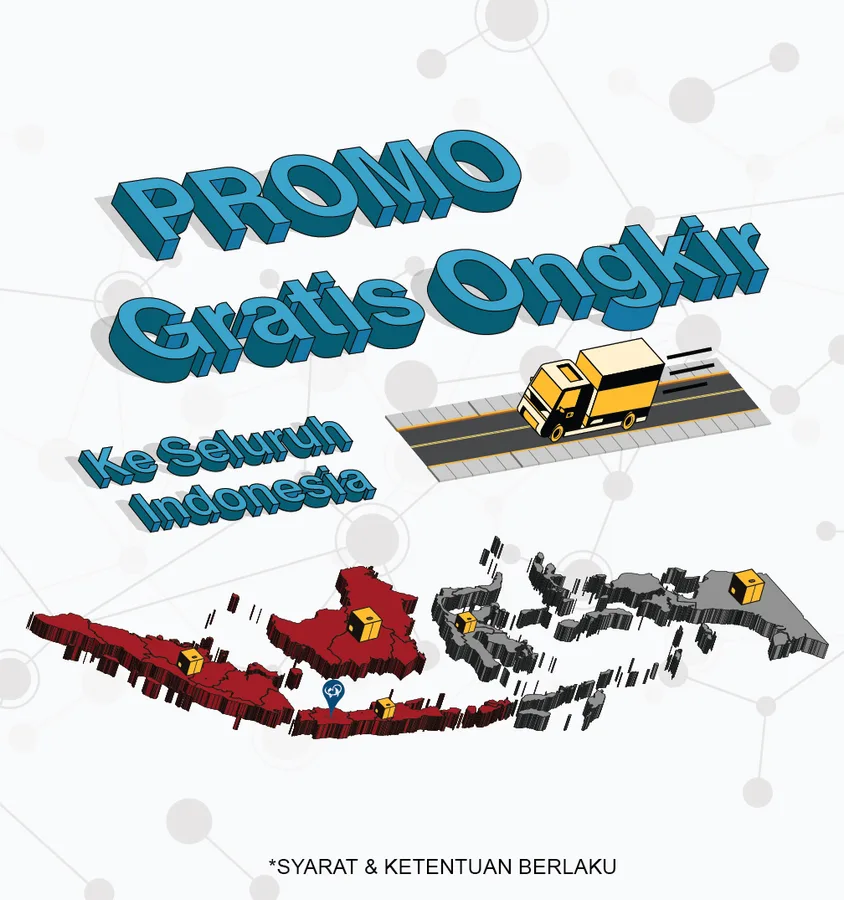
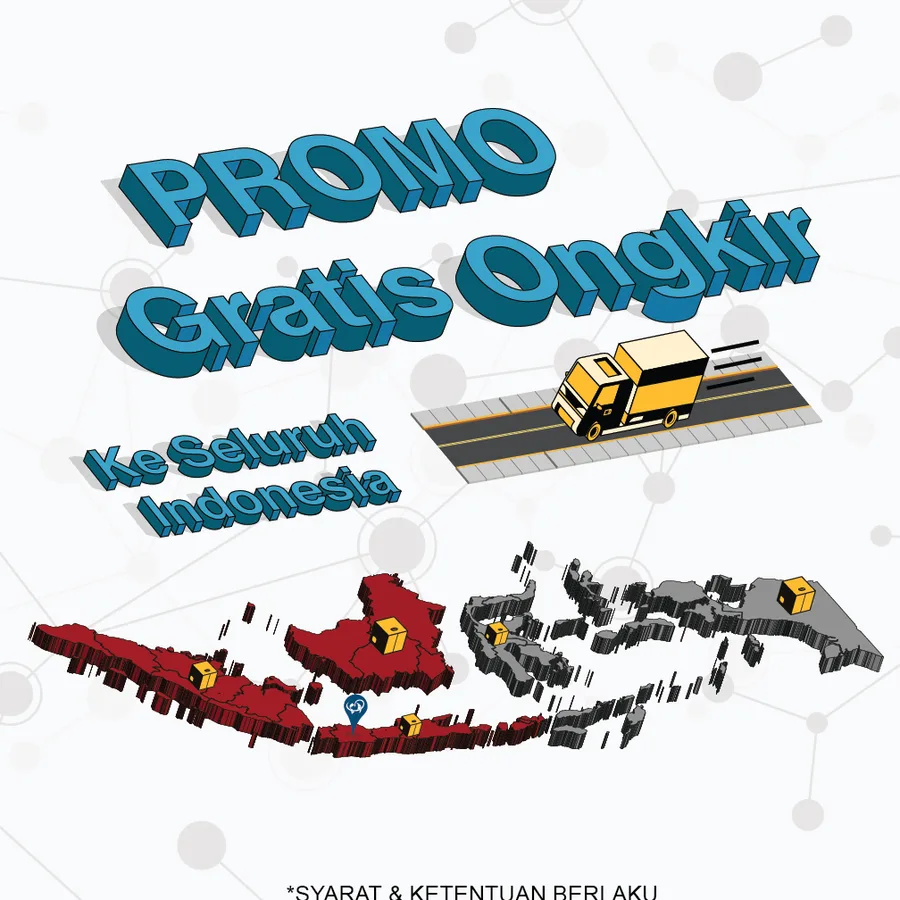
Add Lorikeet collection, update covers, square-crop feed posts
Lorikeet (themed nine-post Instagram grids) is its own collection holding
the Gykaco and BabyBloom grids at matching sizes. Marketplace cover is now
CalMagZinc and the stories cover is Tahun Baru Islam. The gallery script
gains `match`/`exclude` filename routing and a `square` centre-crop, used
to square the Global Cool "Promo Gratis Ongkir" post.

diff --git a/app/lib/design.ts b/app/lib/design.ts
@@ -68,7 +68,7 @@ export const collections: Collection[] = [
     intro:
       "Listing images for a health-supplement brand — hero shots, benefit call-outs, size variants, and gift bundles. Each product ships as a coordinated set so the storefront reads as one brand.",
     ratio: "square",
-    cover: "colostrum-30-tablet-1",
+    cover: "calmagzinc-1",
   },
   {
     slug: "catalog",
@@ -93,11 +93,11 @@ export const collections: Collection[] = [
     slug: "instagram-feeds",
     group: "graphic",
     title: "Instagram feeds",
-    summary: "Campaign posts, holiday greetings, and a nine-tile puzzle grid.",
+    summary: "Campaign posts and holiday greetings for three brands.",
     intro:
-      "Feed posts for three brands: seasonal greetings and recruitment posts for a supplement company, sale campaigns for a fashion label — including a nine-tile puzzle grid that reads as one image on the profile — and promos for a retail store.",
+      "Feed posts for three brands: seasonal greetings and recruitment posts for a supplement company, sale campaigns for a fashion label, and promos for a retail store.",
     ratio: "square",
-    cover: "lorikeet",
+    cover: "1677723121859",
   },
   {
     slug: "instagram-stories",
@@ -107,14 +107,25 @@ export const collections: Collection[] = [
     intro:
       "Full-height story graphics built for the phone screen — product launches, promos, and holiday greetings.",
     ratio: "story",
+    cover: "tahun-baru-islam-story",
+  },
+  {
+    slug: "lorikeet",
+    group: "graphic",
+    title: "Lorikeet",
+    summary: "Themed nine-post Instagram grids that read as one image on the profile.",
+    intro:
+      "Lorikeet grids: nine feed posts planned as a single composition, so the brand's profile page shows one themed image while each post still works on its own. One for a fashion label's new-arrival campaign, one for a parenting-education brand concept.",
+    ratio: "wide",
+    cover: "gykaco",
   },
   {
     slug: "campus-design",
     group: "graphic",
     title: "Campus design work",
-    summary: "Brand concept, infographic, and social grid for a university project.",
+    summary: "Brand concept and infographic for a university project.",
     intro:
-      "Design pieces from coursework. BabyBloom is a digital parenting-education brand concept: a business infographic (SDG focus, mind map, value proposition canvas) and a nine-tile Instagram puzzle grid.",
+      "Design pieces from coursework. BabyBloom is a digital parenting-education brand concept — this business infographic covers its SDG focus, mind map, and value proposition canvas.",
     ratio: "wide",
     cover: "infographic",
   },
